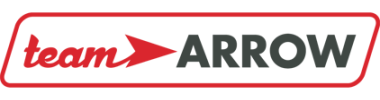
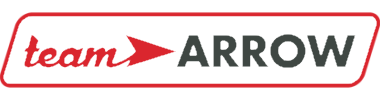
Everything is now config driven

diff --git a/src/main/resources/templates/config.html b/src/main/resources/templates/config.html
@@ -1,0 +1,132 @@
+<!DOCTYPE html>
+<html xmlns:th="http://www.thymeleaf.org" class="no-js">
+	<head>
+		<meta charset="utf-8" />
+		<meta http-equiv="X-UA-Compatible" content="IE=edge,chrome=1" />
+		<title></title>
+		<meta name="description" content="" />
+		<meta name="viewport" content="width=device-width" />
+		
+		<link rel="stylesheet" th:href="@{/css/bootstrap.min.css}" />
+		<link rel="stylesheet" th:href="@{/css/main.css}" />
+		<link rel="stylesheet" th:href="@{/css/bootstrap-responsive.min.css}" />
+		<link rel="stylesheet" th:href="@{/css/main.css}" />
+		
+		<script th:src="@{/js/vendor/modernizr-2.6.2-respond-1.1.0.min.js}"></script>
+	</head>
+	<body>	
+		<div th:replace="header :: menu"></div>
+	
+		<div class="container">
+
+			<!-- Example row of columns -->
+			<div class="row">
+				
+				<div class="span12">			
+			
+	    			<table>
+	        				<tr><td colspan="2" ><h1>Telemetry Configuration</h1></td></tr>
+	        				<tr></tr>
+	        				<tr><td colspan="2" ><h2>Application</h2></td></tr>
+	        				<tr><td>telemetry.username</td><td th:text="${@environment.getProperty('telemetry.username')}"></td></tr>
+	        				<tr><td>telemetry.password</td><td th:text="${@environment.getProperty('telemetry.password')}"></td></tr>
+	        				<tr></tr>
+	        				<tr><td colspan="2"><h2>Splunk</h2></td></tr>
+	        				<tr><td>enable.splunk.connector</td><td th:text="${@environment.getProperty('enable.splunk.connector')}"></td></tr>
+	        				<tr><td>splunk.host</td><td th:text="${@environment.getProperty('splunk.host')}"></td></tr>
+	        				<tr><td>splunk.port</td><td th:text="${@environment.getProperty('splunk.port')}"></td></tr>
+	        				<tr><td>splunk.username</td><td th:text="${@environment.getProperty('splunk.username')}"></td></tr>
+	        				<tr><td>splunk.password</td><td th:text="${@environment.getProperty('splunk.password')}"></td></tr>
+	        				<tr><td>splunk.owner</td><td th:text="${@environment.getProperty('splunk.owner')}"></td></tr>
+	        				<tr><td>splunk.scheme</td><td th:text="${@environment.getProperty('splunk.scheme')}"></td></tr>
+	        				<tr><td>splunk.tcpwriter.port</td><td th:text="${@environment.getProperty('splunk.tcpwriter.port')}"></td></tr>
+	        				<tr></tr>
+	        				<tr><td colspan="2"><h2>Weather Data Connection</h2></td></tr>
+	        				<tr><td>enable.weather.connector</td><td th:text="${@environment.getProperty('enable.weather.connector')}"></td></tr>
+	        				<tr><td>weather.host</td><td th:text="${@environment.getProperty('weather.host')}"></td></tr>
+	        				<tr><td>weather.port</td><td th:text="${@environment.getProperty('weather.port')}"></td></tr>
+	        				<tr><td>weather.timeout</td><td th:text="${@environment.getProperty('weather.timeout')}"></td></tr>
+	        				<tr><td>weather.poll.interval</td><td th:text="${@environment.getProperty('weather.poll.interval')}"></td></tr>
+	        				<tr></tr>
+	        				<tr><td colspan="2"><h2>GPS Connection Listener</h2></td></tr>
+	        				<tr><td>enable.gps.connector</td><td th:text="${@environment.getProperty('enable.gps.connector')}"></td></tr>
+	        				<tr><td>gps.host</td><td th:text="${@environment.getProperty('gps.host')}"></td></tr>
+	        				<tr><td>gps.port</td><td th:text="${@environment.getProperty('gps.port')}"></td></tr>
+	        				<tr></tr>
+	        				<tr><td colspan="2"><h2>Telemetry Data Forwarder</h2></td></tr>
+	        				<tr><td>enable.data.forward</td><td th:text="${@environment.getProperty('enable.data.forward')}"></td></tr>
+	        				<tr><td>data.forward.cron</td><td th:text="${@environment.getProperty('data.forward.cron')}"></td></tr>
+	        				<tr><td>data.forward.url</td><td th:text="${@environment.getProperty('data.forward.url')}"></td></tr>
+	        				<tr></tr>
+	        				<tr><td colspan="2"><h2>Alerting and Lights</h2></td></tr>
+	        				<tr><td>enable.alerts</td><td th:text="${@environment.getProperty('enable.alerts')}"></td></tr>
+	        				<tr><td>alerts.dir</td><td th:text="${@environment.getProperty('alerts.dir')}"></td></tr>
+	        				<tr><td>alerts.values.file</td><td th:text="${@environment.getProperty('alerts.values.file')}"></td></tr>
+	        				<tr><td>alerts.flags.file</td><td th:text="${@environment.getProperty('alerts.flags.file')}"></td></tr>
+	        				<tr></tr>
+	        				<tr><td colspan="2"><h2>Route</h2></td></tr>
+	        				<tr><td>route.file</td><td th:text="${@environment.getProperty('route.file')}"></td></tr>
+	        				<tr></tr>
+	        				<tr><td colspan="2"><h2>UDP Receive and Broadcast</h2></td></tr>
+	        				<tr><td>udp.host</td><td th:text="${@environment.getProperty('udp.host')}"></td></tr>
+	        				<tr><td>udp.port</td><td th:text="${@environment.getProperty('udp.port')}"></td></tr>
+	        				<tr></tr>
+	        				<tr><td colspan="2"><h2>Can File Loader</h2></td></tr>
+	        				<tr><td>can.loader.directory</td><td th:text="${@environment.getProperty('can.loader.directory')}"></td></tr>
+	        				<tr><td>can.loader.pattern</td><td th:text="${@environment.getProperty('can.loader.pattern')}"></td></tr>
+	        				<tr><td>can.loader.poll.interval</td><td th:text="${@environment.getProperty('can.loader.poll.interval')}"></td></tr>
+	        				<tr></tr>
+	        				<tr><td colspan="2"><h1>Infrastructure Configuration</h1></td></tr>
+	        				<tr><td>spring.application.name</td><td th:text="${@environment.getProperty('spring.application.name')}"></td></tr>
+	        				<tr><td>spring.mvc.favicon.enabled</td><td th:text="${@environment.getProperty('spring.mvc.favicon.enabled')}"></td></tr>
+	        				<tr><td>server.port</td><td th:text="${@environment.getProperty('server.port')}"></td></tr>
+	        				<tr><td>server.servlet.contextPath</td><td th:text="${@environment.getProperty('server.servlet.contextPath')}"></td></tr>
+	        				<tr><td>server.servlet.session.timeout</td><td th:text="${@environment.getProperty('server.servlet.session.timeout')}"></td></tr>
+	        				<tr></tr>
+	        				<tr><td colspan="2"><h2>Thymeleaf Configuration</h2></td></tr>
+	        				<tr><td>spring.thymeleaf.cache</td><td th:text="${@environment.getProperty('spring.thymeleaf.cache')}"></td></tr>
+	        				<tr><td>spring.thymeleaf.enabled</td><td th:text="${@environment.getProperty('spring.thymeleaf.enabled')}"></td></tr>
+	        				<tr><td>spring.thymeleaf.prefix</td><td th:text="${@environment.getProperty('spring.thymeleaf.prefix')}"></td></tr>
+	        				<tr><td>spring.thymeleaf.suffix</td><td th:text="${@environment.getProperty('spring.thymeleaf.suffix')}"></td></tr>
+	        				<tr></tr>
+	        				<tr><td colspan="2"><h2>DataSource Configuration</h2></td></tr>
+	        				<tr><td>jdbc.driverClassName</td><td th:text="${@environment.getProperty('jdbc.driverClassName')}"></td></tr>
+	        				<tr><td>jdbc.url</td><td th:text="${@environment.getProperty('jdbc.url')}">/td></tr>
+	        				<tr><td>jdbc.user</td><td th:text="${@environment.getProperty('jdbc.user')}"></td></tr>
+	        				<tr><td>jdbc.pass</td><td th:text="${@environment.getProperty('jdbc.pass')}"></td></tr>
+	        				<tr><td>init-db</td><td th:text="${@environment.getProperty('init-db')}"></td></tr>
+	        				<tr></tr>
+	        				<tr><td colspan="2"><h2>Hibernate Configuration</h2></td></tr>
+	        				<tr><td>hibernate.dialect</td><td th:text="${@environment.getProperty('hibernate.dialect')}"></td></tr>
+	        				<tr><td>hibernate.show_sql</td><td th:text="${@environment.getProperty('hibernate.show_sql')}"></td></tr>
+	        				<tr><td>hibernate.hbm2ddl.auto</td><td th:text="${@environment.getProperty('hibernate.hbm2ddl.auto')}"></td></tr>
+	        				<tr><td>jadira.usertype.autoRegisterUserTypes</td><td th:text="${@environment.getProperty('jadira.usertype.autoRegisterUserTypes')}"></td></tr>
+	        				<tr><td>jadira.usertype.databaseZone</td><td th:text="${@environment.getProperty('jadira.usertype.databaseZone')}"></td></tr>
+	        				<tr><td>jadira.usertype.javaZone</td><td th:text="${@environment.getProperty('jadira.usertype.javaZone')}"></td></tr>
+	        				<tr></tr>
+	        				<tr><td colspan="2"><h2>Debugging Configuration</h2></td></tr>
+	        				<tr><td>logging.level.org.springframework.web</td><td th:text="${@environment.getProperty('logging.level.org.springframework.web')}"></td></tr>
+	        				<tr><td>logging.level.org.hibernate</td><td th:text="${@environment.getProperty('logging.level.org.hibernate')}"></td></tr>
+	        				<tr></tr>
+	        				<tr><td># Use for SQL debugging</td></tr>
+	        				<tr><td>logging.level.org.hibernate.SQL</td><td th:text="${@environment.getProperty('logging.level.org.hibernate.SQL')}"></td></tr>
+	        				<tr><td>logging.level.org.hibernate.type.descriptor.sql.BasicBinder</td><td th:text="${@environment.getProperty('logging.level.org.hibernate.type.descriptor.sql.BasicBinder')}"></td></tr>
+	        				<tr><td>logging.level.org.springframework.transaction.interceptor</td><td th:text="${@environment.getProperty('logging.level.org.springframework.transaction.interceptor')}"></td></tr>
+					</table>
+			</div>
+								
+		</div>
+								
+		<div th:replace="footer :: details"></div>
+		
+		</div>	
+		<!-- /container -->
+	
+		<!-- script src="//ajax.googleapis.com/ajax/libs/jquery/1.9.1/jquery.min.js"></script -->
+		<script src="/js/vendor/jquery-1.9.1.min.js"></script>
+		<script type="text/javascript">window.jQuery || document.write('\x3Cscript type="text/javascript" src="/js/vendor/jquery-1.9.1.min.js">\x3C/script>');</script>
+	
+		<script th:src="@{/js/vendor/bootstrap.min.js}"></script>
+		<script type="text/javascript" th:src="@{/js/jquery.flot.js}"></script>		
+	</body>
+</html>

diff --git a/src/main/resources/templates/header.html b/src/main/resources/templates/header.html
@@ -7,7 +7,7 @@
 				<a class="btn btn-navbar" data-toggle="collapse"
 					data-target=".nav-collapse"> <span class="icon-bar"></span> <span
 					class="icon-bar"></span> <span class="icon-bar"></span>
-				</a> <a class="brand" href="#"><img th:src="@{/img/team-arrow.png}" width="76" height="20"/></a>
+				</a> <a class="brand" href="#"><img th:src="@{/img/team-arrow.png}" width="100" height="30"/></a>
 				<div class="nav-collapse collapse">
 					<ul class="nav">
 						<li class=""><a href="#" th:href="@{/}">Dashboard</a></li>
@@ -69,11 +69,8 @@
 						</li>
 						<!--  <li class=""><a href="#" th:href="@{/laptracker.html}">LapTracker</a></li> -->
 						<li class=""><a href="#" th:href="@{/fleet.html}">Fleet Management</a></li>		
-						<li class="">
-	        				<form th:action="@{/logout}" method="post">
-		            			<input type="submit" value="Sign Out"/>
-	    	    			</form>
-	        			</li>
+						<li class=""><a href="#" th:href="@{/config.html}">Config</a></li>
+						<li class=""><a href="#" th:href="@{/logout}">Logout</a></li>
         			</ul>
 				</div>
 				<!--/.nav-collapse -->

diff --git a/src/main/java/au/com/teamarrow/web/controller/FleetController.java b/src/main/java/au/com/teamarrow/web/controller/FleetController.java
@@ -11,6 +11,8 @@ import org.slf4j.Logger;
 import org.slf4j.LoggerFactory;
 import org.springframework.beans.factory.annotation.Autowired;
 import org.springframework.beans.factory.annotation.Qualifier;
+import org.springframework.context.annotation.PropertySource;
+import org.springframework.core.env.Environment;
 import org.springframework.integration.support.MessageBuilder;
 import org.springframework.messaging.MessageChannel;
 import org.springframework.stereotype.Controller;
@@ -30,6 +32,7 @@ import au.com.teamarrow.model.MeasurementData;
 
 @Controller
 @RequestMapping(value = "/")
+@PropertySource({"classpath:application.properties"})
 public class FleetController extends AbstractController {
         
 	private static final Logger LOG = LoggerFactory.getLogger(FleetController.class);
@@ -52,9 +55,10 @@ public class FleetController extends AbstractController {
     @Qualifier("serverBytes2GpsSplitterChannel")
     MessageChannel serverBytes2GpsSplitterChannel;
 
+	@Autowired
+	private Environment env;
 	
     private static final int MAX_UDP_DATAGRAM_LEN = 512;
-    private static final int UDP_SERVER_PORT = 4879;
 
 	
     public FleetController() {
@@ -179,19 +183,19 @@ public class FleetController extends AbstractController {
 
 	        InetAddress address = null;
 	        try {
-	            address = InetAddress.getByName("239.255.60.60");
+	            address = InetAddress.getByName(env.getProperty("udp.host"));
 	        } catch (UnknownHostException e1) {
 	            e1.printStackTrace();
 	        }
 			        
 	        try {
-	        	MulticastSocket socket = new MulticastSocket(UDP_SERVER_PORT); // must bind receive side
+	        	MulticastSocket socket = new MulticastSocket(new Integer(env.getProperty("udp.port"))); // must bind receive side
 	        	socket.joinGroup(address);
 	        	socket.setSoTimeout(100);
 				
 	            send_bytes = new String(message).getBytes();
 	            		
-	            DatagramPacket send_packet = new DatagramPacket(send_bytes, send_bytes.length, address, UDP_SERVER_PORT);
+	            DatagramPacket send_packet = new DatagramPacket(send_bytes, send_bytes.length, address, new Integer(env.getProperty("udp.port")));
 	            socket.send(send_packet);
 	            socket.close();
 	            

diff --git a/src/main/java/au/com/teamarrow/web/controller/ConfigController.java b/src/main/java/au/com/teamarrow/web/controller/ConfigController.java
@@ -1,0 +1,15 @@
+package au.com.teamarrow.web.controller;
+
+import org.springframework.stereotype.Controller;
+import org.springframework.ui.Model;
+import org.springframework.web.bind.annotation.RequestMapping;
+
+@Controller
+public class ConfigController extends AbstractController {
+       
+    @RequestMapping(value = "/config.html")
+    public String showConfig(Model model) {
+        return "config";
+    }
+    
+}
